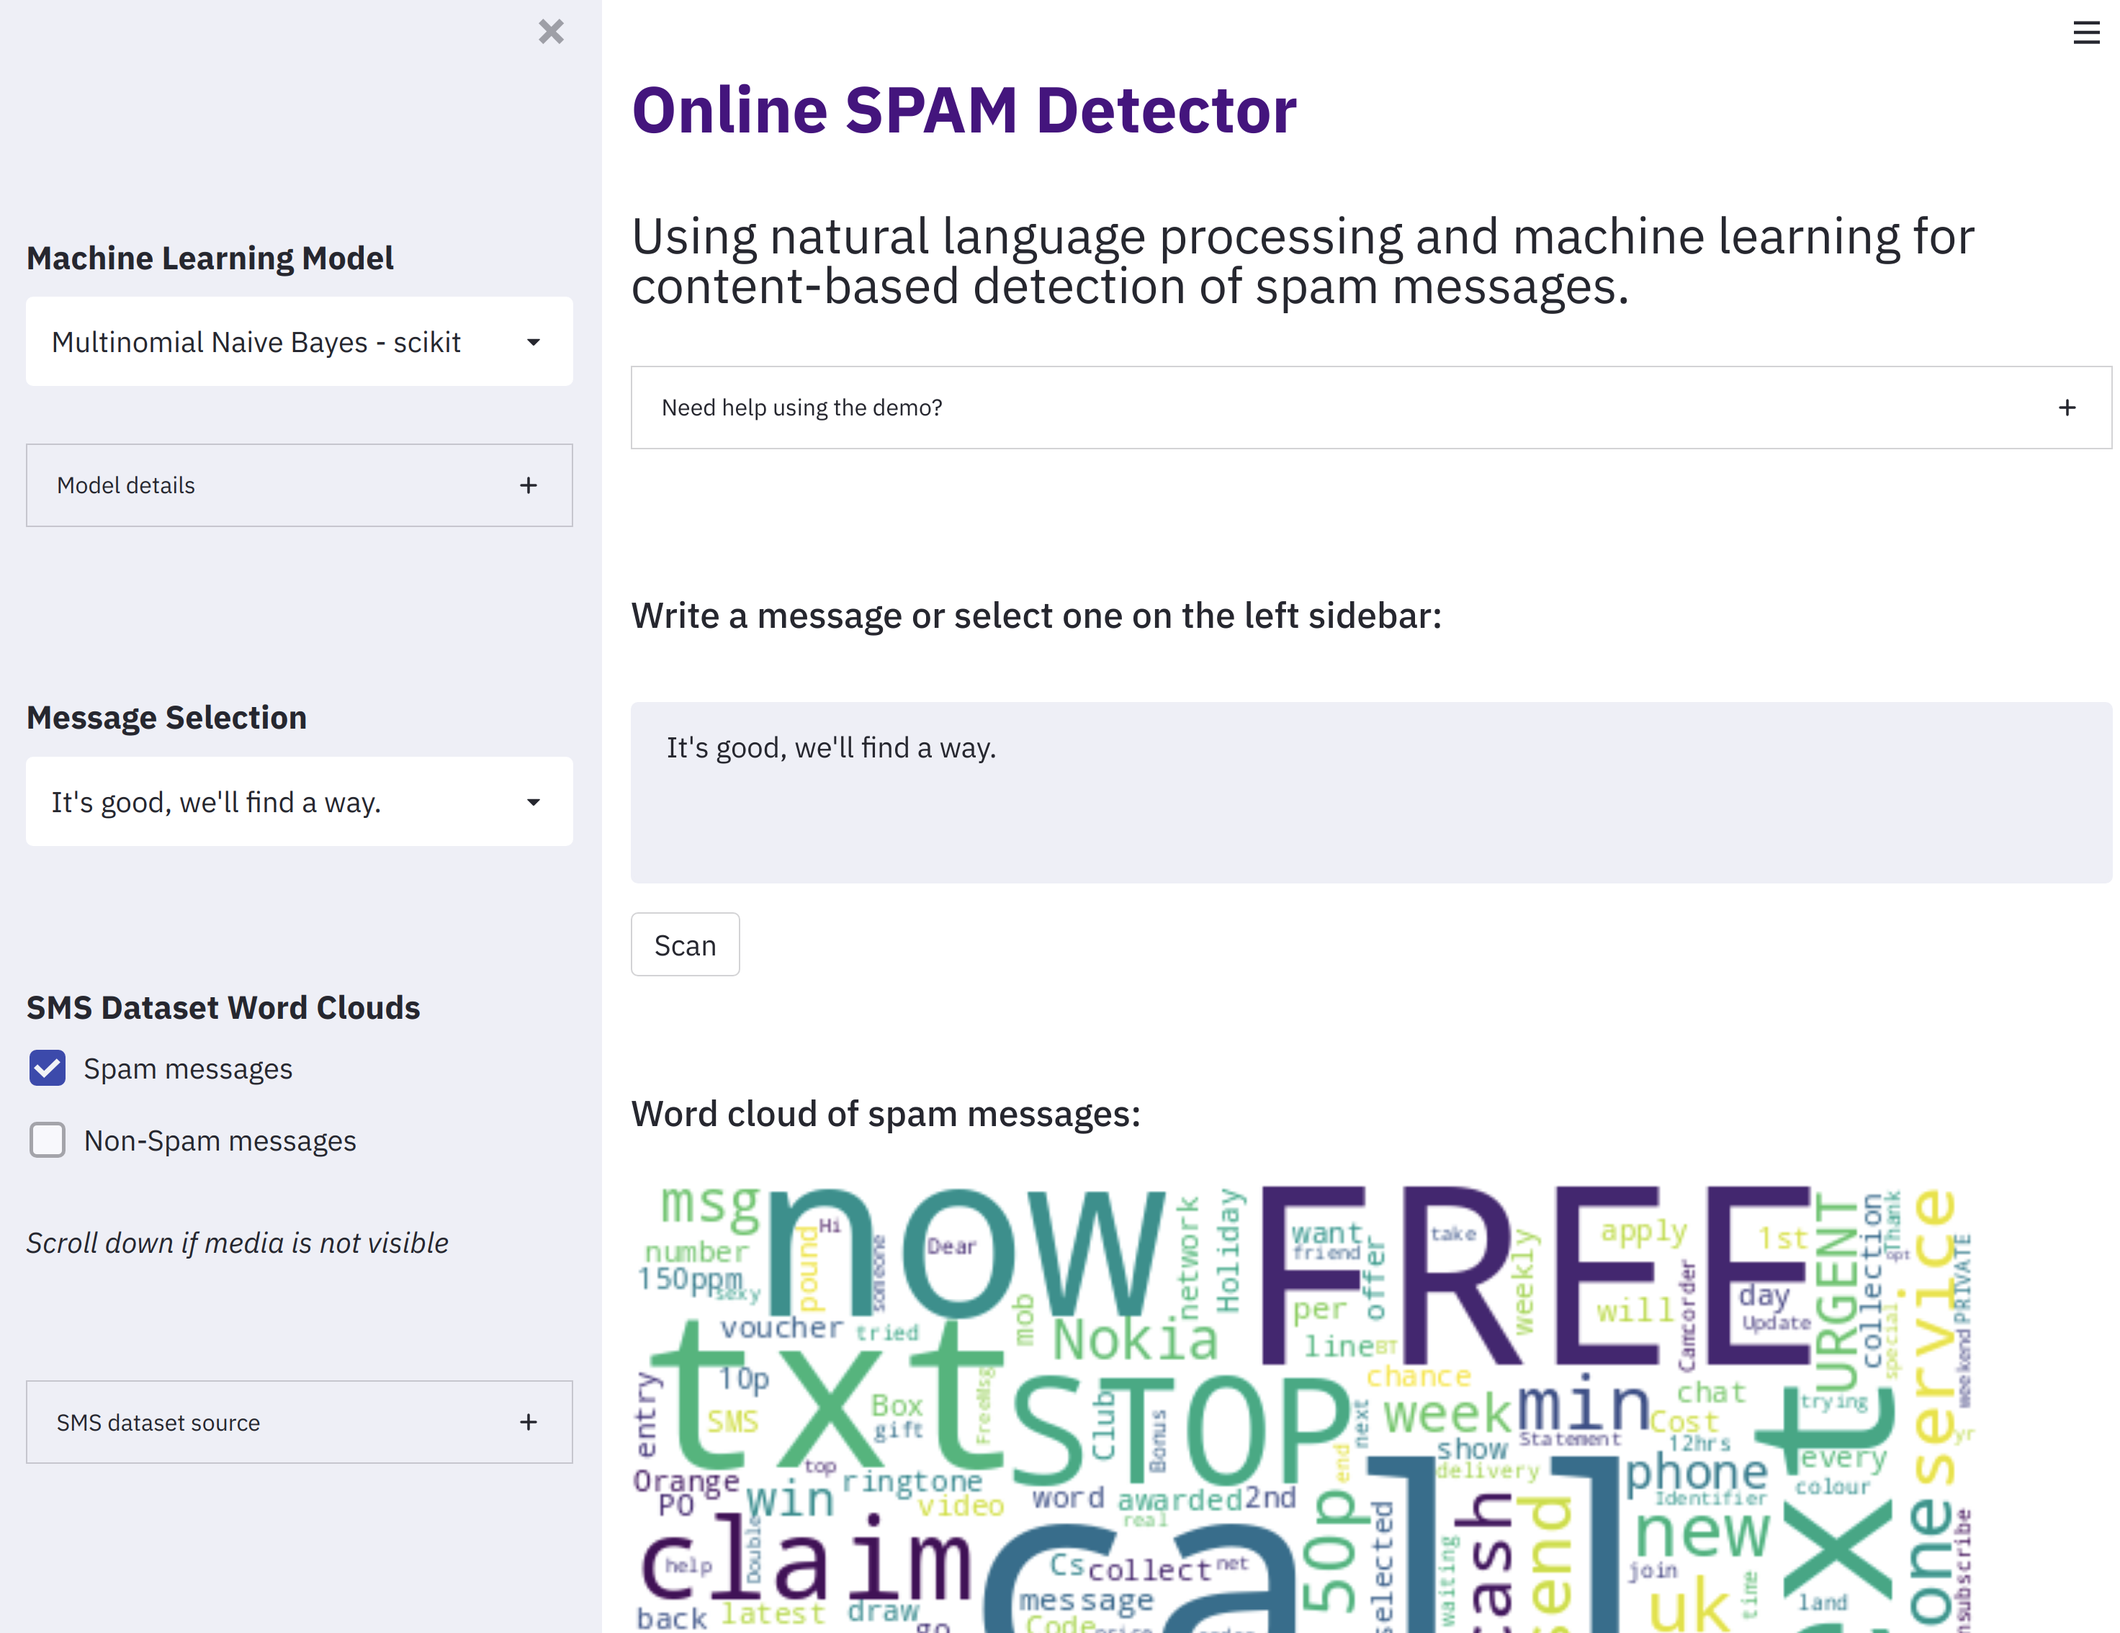
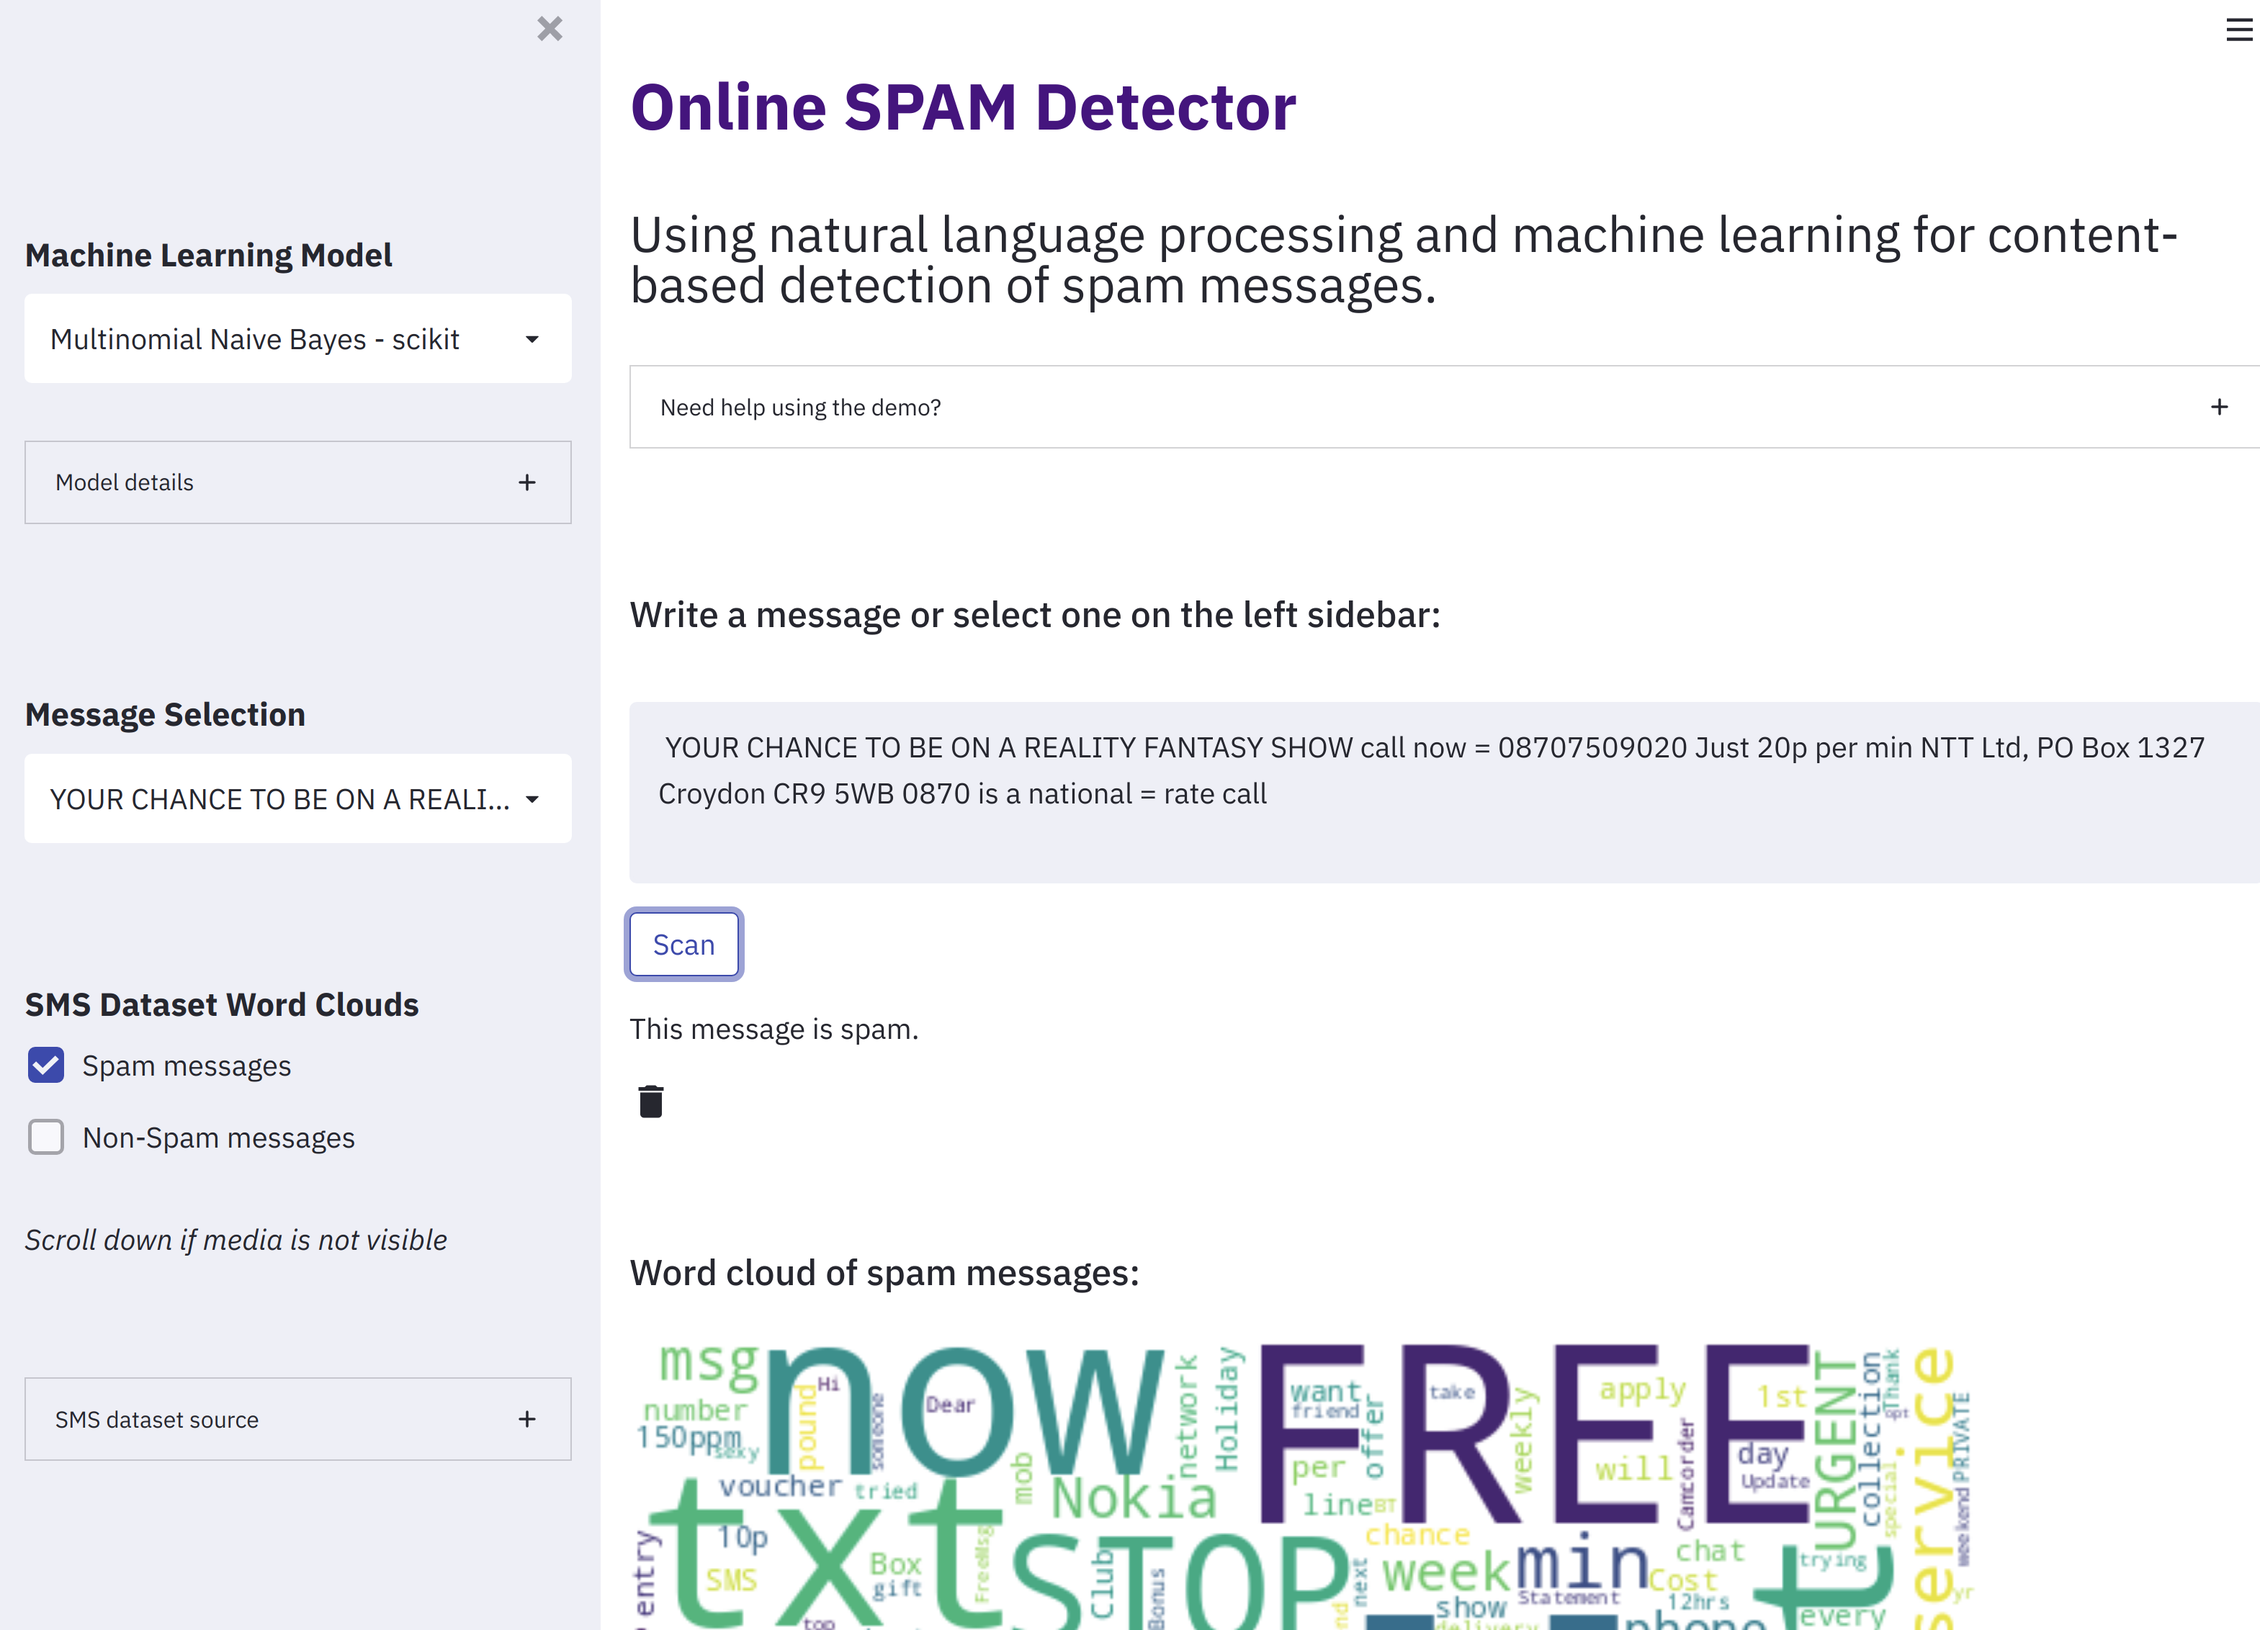
Add app screenshot

diff --git a/README.md b/README.md
@@ -5,8 +5,15 @@
   The model is built using the Multinomial Naive Bayes (MNB) classifier. It is a fast algorithm that is suited for text classification.
   
   We deployed the model in a web app for online spam detection using Streamlit.
+  
+#
 
-  The Jupyter notebook is divided into six sections:
+![App screenshot](https://github.com/C-Youssef/spam-detection/blob/ba3bb81c6a101ca0484f02a3ca6efbbcea17d207/media/app_screenshot.png)
+
+#
+
+  The Jupyter notebook spam_detection.ipynb is divided into six sections:
+  
 1.   Loading the labeled SMS dataset. 
 2.   Visualizing the data.
 3.   Applying natural language processing (NLP) to the textual data.
